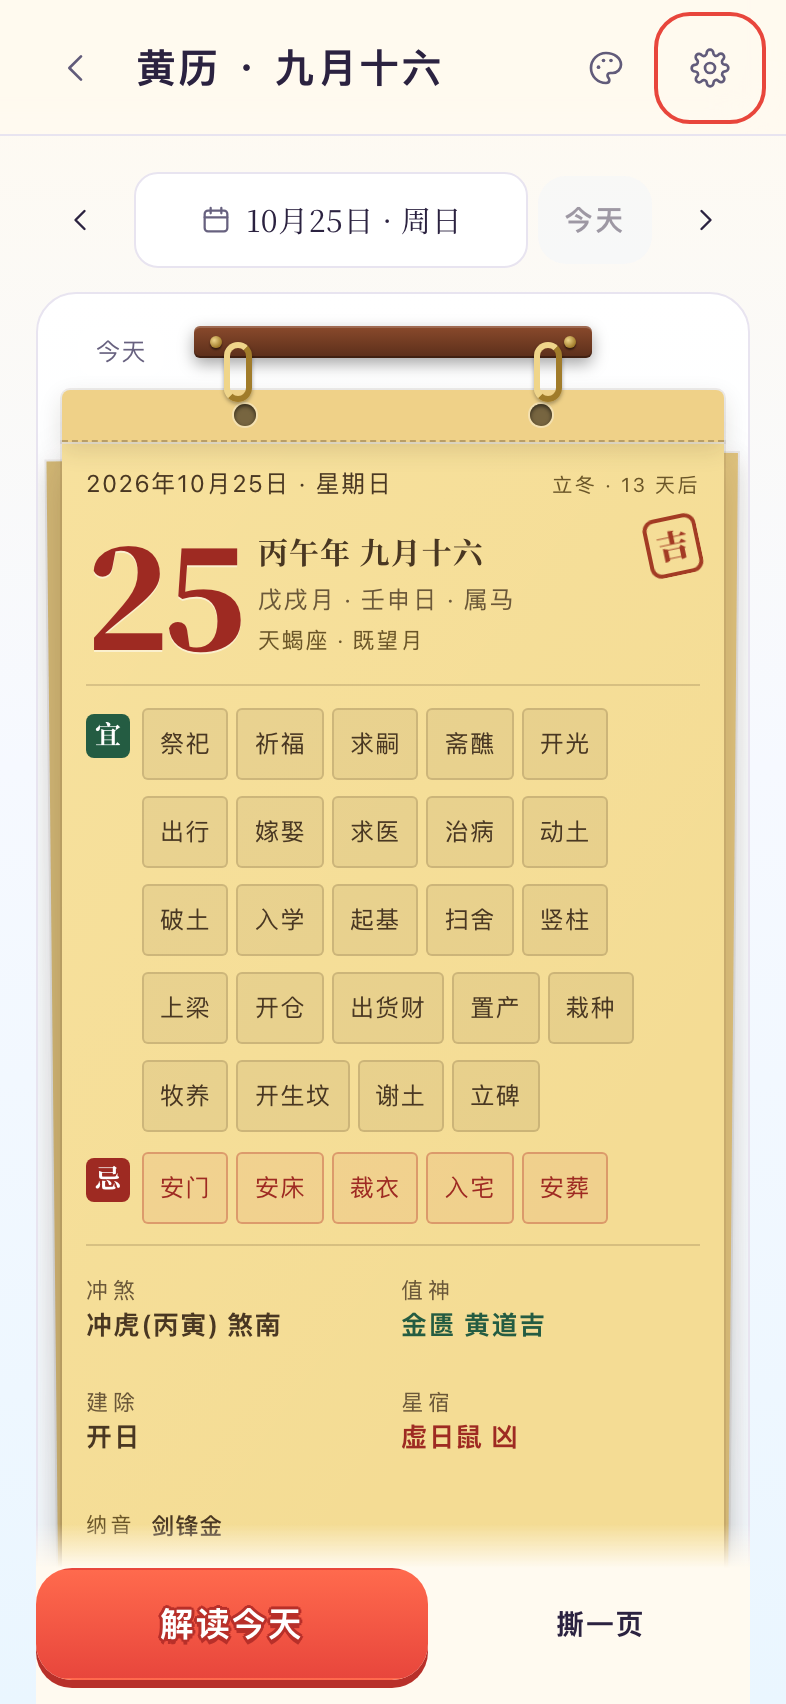
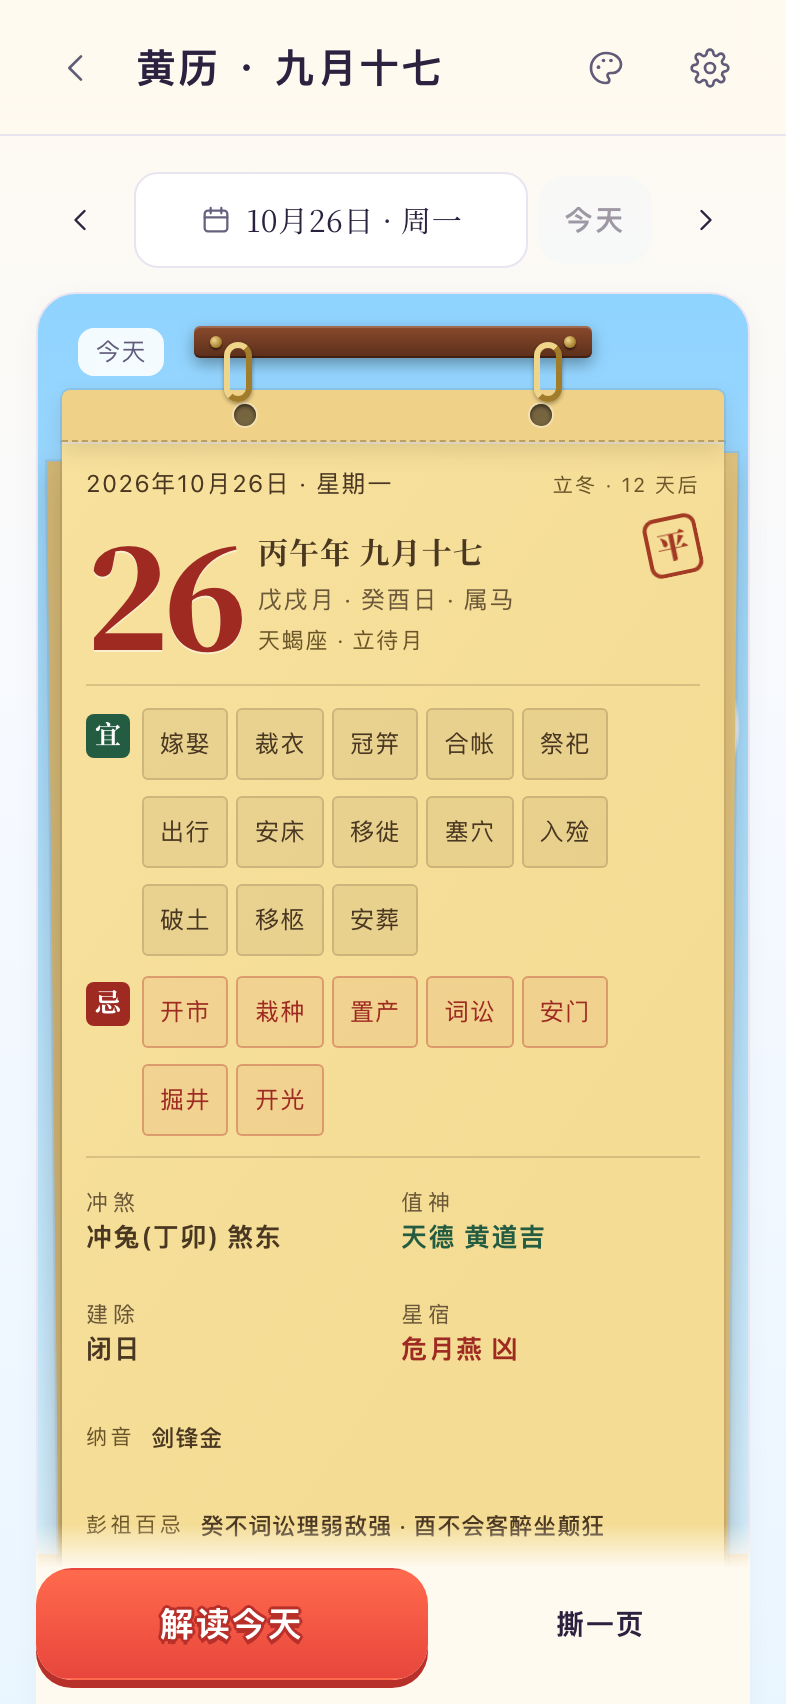
2D 玩法舞台换成卡通晴空，灵签筒改朱漆
舞台铺天空渐变、硬边地平线、纯色地面，浅色皮肤白云、深色皮肤星点，五套皮肤各一组色。
装饰画在 .stage::before 上不压字，去掉压暗四周的内阴影改成底部厚边，地影改硬边椭圆。
舞台小字底改 88% 不透明，深色皮肤小字提亮，contrast-audit 21 页 × 5 皮肤 0 处不达标。
截图替换为本轮 10 个玩法页两种尺寸 20 张。

Claude-Session: https://claude.ai/code/session_014kEEoSbSq31z5WSyCz3bva

diff --git a/src/styles/toon-props.css b/src/styles/toon-props.css
@@ -215,3 +215,84 @@
   stroke-width: 2.2px;
   filter: drop-shadow(0 1.5px 0 var(--tr-back-ink)) drop-shadow(0 -1px 0 var(--tr-back-ink));
 }
+
+/* —— 舞台卡通底（第 34 轮）——
+   2D 玩法（灵签、御神签、筊杯、硬币骰子、六爻、转盘、落球盘、卢恩、塔罗、黄历）的舞台原来是近白底配灰地影，器物像摆在白纸上。
+   改成和 3D 舞台同一套晴空：上段天空渐变，64% 处一道硬边地平线，下段纯色地面，天上两朵硬边白云（深色皮肤换成星点）。
+   3D 玩法的画布盖满舞台，这层底只在画布出来前和关掉 WebGL 时露出，也是同一片天。 */
+:root {
+  --toon-sky-1: #8fd3ff;
+  --toon-sky-2: #d4f0ff;
+  --toon-ground: #fff0cc;
+  --toon-ground-edge: #f0d49a;
+  --toon-deco: rgba(255, 255, 255, 0.92);
+  --toon-deco-size: 15% 5.5%;
+  --toon-floor: rgba(106, 123, 214, 0.22);
+}
+[data-theme='celadon'] {
+  --toon-sky-1: #93dcc8;
+  --toon-sky-2: #daf5ec;
+  --toon-ground: #f6f0d6;
+  --toon-ground-edge: #dccf9c;
+  --toon-floor: rgba(20, 90, 70, 0.2);
+}
+[data-theme='ink'] {
+  --toon-sky-1: #12293c;
+  --toon-sky-2: #224a66;
+  --toon-ground: #1a3038;
+  --toon-ground-edge: #3a6a78;
+  --toon-deco: rgba(255, 244, 214, 0.85);
+  --toon-deco-size: 2.2px 2.2px;
+  --toon-floor: rgba(0, 0, 0, 0.35);
+}
+[data-theme='cinnabar'] {
+  --toon-sky-1: #3a1022;
+  --toon-sky-2: #7a2a34;
+  --toon-ground: #3a1418;
+  --toon-ground-edge: #9a4030;
+  --toon-deco: rgba(255, 220, 160, 0.85);
+  --toon-deco-size: 2.2px 2.2px;
+  --toon-floor: rgba(0, 0, 0, 0.35);
+}
+[data-theme='nebula'] {
+  --toon-sky-1: #1b1446;
+  --toon-sky-2: #4a3a8c;
+  --toon-ground: #2a2160;
+  --toon-ground-edge: #6a58c0;
+  --toon-deco: rgba(230, 226, 255, 0.9);
+  --toon-deco-size: 2.2px 2.2px;
+  --toon-floor: rgba(0, 0, 0, 0.35);
+}
+.stage {
+  background:
+    linear-gradient(180deg, var(--toon-sky-1) 0%, var(--toon-sky-2) 64%, var(--toon-ground) 64% 100%);
+}
+.m-tarot .tr-stage {
+  /* refinement.css 给塔罗舞台单独铺了一层浅灰底，盖掉换回晴空 */
+  background:
+    linear-gradient(180deg, var(--toon-sky-1) 0%, var(--toon-sky-2) 64%, var(--toon-ground) 64% 100%);
+}
+/* 云朵、星点与地平线那道硬边画在伪元素上：它在舞台所有子元素之下，不压字，也不算进文字的背景 */
+.stage::before {
+  content: '';
+  position: absolute;
+  inset: 0;
+  border-radius: inherit;
+  pointer-events: none;
+  background:
+    radial-gradient(ellipse var(--toon-deco-size) at 20% 15%, var(--toon-deco) 0 96%, transparent 99%),
+    radial-gradient(ellipse var(--toon-deco-size) at 27% 13%, var(--toon-deco) 0 96%, transparent 99%),
+    radial-gradient(ellipse var(--toon-deco-size) at 78% 24%, var(--toon-deco) 0 96%, transparent 99%),
+    radial-gradient(ellipse var(--toon-deco-size) at 84% 22%, var(--toon-deco) 0 96%, transparent 99%),
+    linear-gradient(180deg, transparent 64%, var(--toon-ground-edge) 64% 66.5%, transparent 66.5%);
+}
+.stage,
+[data-theme='paper'] .stage,
+[data-theme='celadon'] .stage {
+  /* 去掉压暗四周的内阴影（显得阴沉），换成手游卡片的底部厚边 */
+  box-shadow: var(--shadow-1), 0 4px 0 var(--edge-color, rgba(43, 34, 64, 0.12));
+}
+.stage-floor {
+  /* 器物脚下一块硬边冷紫影，不再是糊开的灰圈 */
+  background: radial-gradient(ellipse 34% 20% at 50% 50%, var(--toon-floor) 0 96%, transparent 100%);
+}

diff --git a/src/ui/stick-scene.js b/src/ui/stick-scene.js
@@ -2,8 +2,8 @@ import { createStickPhysics } from '../core/stick-physics.js';
 import { box, lathe, transformed, axisAngle, rotate, add } from './models/geometry.js';
 import { createPainter } from './models/painter.js';
 
-// 卡通色板（visual-direction.md）：灵签筒是暖木色配金箍，御神签筒是朱红配金箍，签条为亮竹黄、签头朱红。
-const wood = '#c9772f', lacquer = '#e8463c', bamboo = '#f6d68a', bamboo2 = '#ecbf62', red = '#e8463c', gold = '#ffc93c';
+// 卡通色板（visual-direction.md）：灵签筒是朱漆圆筒配金箍（第 34 轮由暖木改，土棕在三段明暗下发闷），御神签筒是朱红六角筒配金箍，签条为亮竹黄、签头朱红。
+const wood = '#d8402e', lacquer = '#e8463c', bamboo = '#f6d68a', bamboo2 = '#ecbf62', red = '#e8463c', gold = '#ffc93c';
 const meshes = new Map();
 function tubeMesh(half, closed) {
   const key = String(closed);
@@ -15,7 +15,7 @@ function tubeMesh(half, closed) {
     : [[0,-half],[radius,-half],[radius,half],[radius-4,half],[radius-4,-half+5],[0,-half+5]];
   const body = lathe(profile, closed ? lacquer : wood, n);
   const rings = [-half + 9, half - 13].flatMap(y => lathe([[radius+1.2,y],[radius+1.2,y+6]], gold, n));
-  const inside = closed ? [] : lathe([[radius-4,-half+5],[radius-4,half-1]], '#7a3d1c', n);
+  const inside = closed ? [] : lathe([[radius-4,-half+5],[radius-4,half-1]], '#7a1a14', n);
   const mesh = [...body, ...inside, ...rings]; meshes.set(key, mesh); return mesh;
 }
 export function paintStickScene(c, width, height, sim, label = '') {

diff --git a/src/styles/contrast.css b/src/styles/contrast.css
@@ -42,3 +42,9 @@
 
 /* 付费卡「最划算」小角标：10px 白字，红底加深到主按钮厚边色 */
 [data-theme='paper'] .pw-plan-name em { background: var(--btn-edge); }
+
+/* 第 34 轮：深色皮肤舞台换成卡通夜空后，舞台上的半透明小字底变亮，小字改用二级文字色 */
+:is([data-theme='ink'], [data-theme='cinnabar'], [data-theme='nebula']) :is(.stage-badge, .stage-hint) { color: var(--text-2); }
+:is([data-theme='ink'], [data-theme='cinnabar'], [data-theme='nebula']) :is(.m-liuyao .ly-line-pos, .m-liuyao .ly-board-foot, .m-liuyao .ly-board-title) { color: var(--text); }
+.stage-badge, .stage-hint { background: color-mix(in srgb, var(--surface-strong) 88%, transparent); }
+[data-theme='paper'] :is(.stage-badge, .stage-hint) { color: var(--text-2); background: rgba(255, 255, 255, 0.9); }

diff --git a/docs/claude-plan/TODO.md b/docs/claude-plan/TODO.md
@@ -77,7 +77,7 @@ P0 上架必需 · P1 影响付费转化 · P2 体验打磨。完成后打勾并
 - [x] **浮在 3D 舞台上的文字对比度** ✅ 2026-10-26（第 32 轮。`contrast-audit.mjs` 新增 `--stage`：打开 WebGL，把浮在舞台上的字隐去后截下所在方块，逐像素算对比度取最差 10% 分位，计入合计。4 处都是塔罗页角标「78 张」（青瓷、墨夜、朱砂、星云），对比度 6.2 到 7.6，达标。宣纸与星云皮肤 21 个页面开 WebGL 全量重跑，0 处不达标）（P2，第 31 轮发现）：`contrast-audit` 发现 4 处文字背景一路透明到 3D 画布，脚本算不出，需要按截图取样。完成标准：给 audit 加截图取样模式，或逐个目测确认有底板或描边。
 - [x] **卢恩皮袋与麻布的阴沉感** ✅ 2026-10-26（第 33 轮重拍 12 个玩法页后挑出：深棕皮袋柔和渐变像塑料，米灰麻布与深灰符石整块发闷。新增 `src/styles/toon-props.css`，皮袋焦糖橙硬边分段加深棕描边与硬高光，麻布改五套皮肤各一色的绒布垫配金边，浅色皮肤符石改亮沙岩，槽位与石名白字深描边。5 套皮肤截图过目，contrast-audit 卢恩与塔罗 0 处不达标，`tests/toon-props.test.mjs` 3 项）（P2，第 33 轮发现）
 - [x] **塔罗牌背暗绿发闷** ✅ 2026-10-26（第 33 轮同一次过目发现：牌背近黑墨绿配 0.8 细线淡金，牌面插画被压到 0.48 饱和。牌背改饱和紫斜切两段明暗加深紫描边，线描加粗到 2.2 亮金，朱砂、青瓷、星云各换一色，插画恢复原色。参数见 visual-direction.md 第 2 节）（P2，第 33 轮发现）
-- [ ] **签筒、御神签筒、筊杯舞台底色发白**（P2，第 33 轮发现）：灵签、御神签、筊杯、硬币、六爻、转盘、落球盘等 2D 舞台是近白底配浅灰地影，和姻缘财运那种晴空水面舞台差得远，器物像摆在空白纸上。灵签签筒是土棕渐变，也偏闷。完成标准：给 2D 舞台加卡通化的底（浅天蓝到奶油的硬边地平线或一块描边桌垫），签筒改朱漆加金箍，5 套皮肤截图过目，contrast-audit 0 处不达标。
+- [x] **签筒、御神签筒、筊杯舞台底色发白** ✅ 2026-10-26（第 34 轮。`toon-props.css` 给所有舞台铺卡通晴空：上段天空渐变、64% 处一道硬边地平线、下段纯色地面，浅色皮肤两朵硬边白云，深色皮肤星点，五套皮肤各一组色。云朵、星点与地平线画在 `.stage::before` 上，在所有子元素之下。去掉压暗四周的内阴影，改成底部 4px 厚边，地影改硬边冷紫椭圆，塔罗舞台的单独浅灰底也盖掉。灵签筒由土棕木改朱漆、筒内深红。舞台小字底改为 88% 不透明，深色皮肤小字用二级文字色，六爻爻位与标题用一级文字色。contrast-audit 21 个页面 × 5 套皮肤 0 处不达标，`tests/toon-props.test.mjs` 新增 1 项）（P2，第 33 轮发现）：灵签、御神签、筊杯、硬币、六爻、转盘、落球盘等 2D 舞台是近白底配浅灰地影，和姻缘财运那种晴空水面舞台差得远，器物像摆在空白纸上。灵签签筒是土棕渐变，也偏闷。完成标准：给 2D 舞台加卡通化的底（浅天蓝到奶油的硬边地平线或一块描边桌垫），签筒改朱漆加金箍，5 套皮肤截图过目，contrast-audit 0 处不达标。
 - [x] **3D 舞台 e2e 在 Mac 高负载时超时** ✅ 2026-10-23（第 11 轮查明：SwiftShader 没有并行编译扩展，舞台首次同步编译着色器会把页面主线程占住 20 到 40 秒，期间 Playwright 的 waitForSelector 拿不到回应。原来 30 秒的等待不够，失败的用例又不关上下文，留下的 WebGL 舞台继续占 CPU 拖垮后面所有用例。改为按 200 毫秒间隔轮询、玩法页与舞台等待统一 120 秒、afterEach 关闭所有上下文，8 项全部通过。真机有 GPU，不受影响）（第 10 轮发现）：`tests/e2e/stage.e2e.mjs` 7 项等待 `data-ready` 30 秒超时，未改动的 HEAD 上同样失败，当时系统负载 12（ANECompilerService 与 iOS 模拟器在跑）。负载降到 8 后再跑仍然超时。用同样的浏览器参数（WebGL、zh-CN、390×844、宣纸皮肤）单独写脚本打开姻缘页，3 秒内就 `data-ready="1"` 且可见，所以问题在测试文件内部（可能是 before 里的构建目录或共享浏览器状态），不是页面本身。完成标准：查到原因并让 stage.e2e.mjs 11 件器物全部通过。
 - [ ] **英文界面**（第 11 轮从 P1 移到 P2：签诗、牌义、黄历等解读内容全是中文，只翻界面会让英文用户点开结果看到整页中文，比不翻更差。首发面向中文用户，英文版需要连同解读内容一起做，单独立项）
 - [x] **快进的发现性** ✅ 2026-10-23（第 12 轮，`src/ui/ritual.js` 第一次遇到 ≥1.2 秒的仪式等待时，舞台底部居中出白底描边小签「轻点舞台可快进」2.6 秒，快进或出结果时立即收起，`lgj:hint.hurry` 记住后所有玩法都不再出现，`tests/e2e/hurry.e2e.mjs` 新增 1 项）：第一次仪式时在舞台下方提示一次「轻点舞台可快进」。完成标准：只出现一次，有 e2e。

diff --git a/docs/claude-plan/run-log.md b/docs/claude-plan/run-log.md
@@ -1034,3 +1034,27 @@
 Mac 上 `npm test` 435 项全部通过（含第 28 轮未提交的 3 项，负载 185 到 270 下跑了约 33 分钟）。
 
 推送结果：提交 8a7f049 推送成功。
+
+## 第 34 轮 · 2026-10-26 21:25 UTC 起（PDT 10-26 14:25，Peyton 在对话里让继续，提前开跑）
+
+开始状态：分支正确，与远端一致（123eb6b），.lock 为 idle，已写入本轮时间。工作区仍有第 28 轮留下的未提交改动，原样保留、不提交，TODO.md 照上一轮的办法只暂存本轮改动。Mac 磁盘已清到 32GB 空余，负载降到 24 到 43。
+
+完成的待办（1 项 P2，第 33 轮新增）：
+- ✅「签筒、御神签筒、筊杯舞台底色发白」：`toon-props.css` 给所有舞台铺卡通晴空，上段天空渐变、64% 处一道硬边地平线、下段纯色地面，浅色皮肤两朵硬边白云，深色皮肤星点，五套皮肤各一组色。云朵、星点与地平线画在 `.stage::before` 上，在舞台所有子元素之下，不压字。去掉压暗四周的内阴影，改成手游卡片的底部 4px 厚边，地影改硬边椭圆，塔罗舞台原来单独铺的浅灰底也换成晴空。灵签筒由土棕木改朱漆、筒内深红，和朱红六角的御神签筒靠形状区分。3D 玩法的画布盖满舞台，这层底只在画布出来前和关掉 WebGL 时露出。
+- 对比度：换底后深色皮肤舞台上的徽记、提示和六爻卦象台小字 78 处不达标（半透明底叠在变亮的夜空上），舞台小字底改 88% 不透明，深色皮肤小字用二级文字色，六爻爻位与标题用一级文字色，宣纸皮肤徽记用白底 0.9。改后 21 个页面 × 5 套皮肤 0 处不达标。
+- 参数写进 visual-direction.md 第 2 节「舞台底（2D 玩法）」，`tests/toon-props.test.mjs` 新增 1 项。
+
+检查结果：
+- 云端 `npm test` 433 项、Mac 上 436 项全部通过（Mac 含第 28 轮未提交的 3 项），`npm run build` 通过。
+- 截图（Mac，393×852 与 430×932，`--no-webgl`）：灵签、御神签、筊杯、硬币、六爻、转盘、落球盘、卢恩、塔罗、黄历共 20 张，替换第 31 轮的旧图。report.json 无横向溢出，转盘的 `wh-halo` 与塔罗、转盘的 `chip` 是舞台内被裁掉的光晕和横向滚动的页签，改动前就有，页面本身不溢出。过目：晴空、地平线与白云清楚，朱漆签筒配金箍醒目，器物不再像摆在白纸上，徽记小字清楚无截断。云端另看了星云、朱砂、玄墨、青瓷四套皮肤的灵签、筊杯、塔罗、御神签、六爻、转盘，夜空星点和地平线正常，开 WebGL 的姻缘页 3D 舞台不受影响。
+- e2e 没有跑：本轮只改颜色与背景，不改布局和交互。
+
+遗留问题：
+- 第 28 轮的未提交改动仍在工作区。
+- 磁盘已够 6GB，下一轮可以开始 P1「UI 测试走通购买与恢复」与大屏模拟器付费卡截图。
+
+下一轮计划：做 P1「UI 测试走通购买与恢复」（`PaywallScreenshotTests` 新增两项并在模拟器通过），顺带跑 P2「付费卡在大屏模拟器上截图」。
+
+待 Peyton 决定：
+- 第 28 轮留在工作区的未提交改动（e2e 舞台等待可调、测试里关掉自动屏保）是否提交。
+- 首发是否包含中国大陆（需 App 备案号）、小组件与断签提醒真机验证、年龄分级 13+、皮肤内购价格档位、GitHub Pages 合并时机，同前几轮。

diff --git a/docs/claude-plan/visual-direction.md b/docs/claude-plan/visual-direction.md
@@ -37,6 +37,7 @@
 | 动效 | 所有触发动作带「预备 → 冲 → 过冲 → 回弹」：预备压扁 8%、过冲 12%、回弹阻尼 0.35。揭晓时器物放大 1.08 再回到 1，同时一圈金星粒子。构图要给过冲留余量：过冲时器物最高点在正方形舞台里 ndc.y < 0.9（灵摆第 23 轮调相机，青云梯第 24 轮调相机）。第 24 轮起 `npm run frame:check` 在真实场景里逐帧投影主角全部顶点，11 件从静止、动作到揭晓全程最高点 < 0.9、最低点 > −0.95、左右 < 0.95，叠加混合的光束不计入，`tests/e2e/stage-frame.e2e.mjs` 断言 |
 | 卢恩皮袋与绒布（CSS 器物） | 第 33 轮 `src/styles/toon-props.css`：皮袋焦糖橙 #e08a2e、暗段 #b05a1c 硬边分段（椭圆 70% 处切开），3px 深棕 #4a2410 描边，一块旋转 −24° 的白色硬高光（不透明度 0.55），束绳金 #ffc93c / #d8901e 两段。米色麻布改绒布垫：宣纸紫 #7a52e0、青瓷绿 #22a88f、朱砂红 #d8402e、星云 #4a3ab8、玄墨蓝 #3f6fd8，圆角 14px，3px 深色描边，内圈 8px 金边，左上 38% 一块浅色斜面，2px 奶油虚线框与槽位。浅色皮肤符石由深灰改亮沙岩 #f8e6bc / #e2b878 / #b07a3e，符文朱红 #d8402e，2.5px 深紫 #2b2240 内描边加右下硬暗边。槽位与石名白字 #fff4d6 配四向 1px 深色描边，逆位章改金底 |
 | 塔罗牌背（CSS 器物） | 第 33 轮：暗绿 #20363c 改饱和紫 #7b4fe0，左上 34% 斜切亮段 #9b6bff，2.5px 深紫 #24124f 描边。线描由 0.8 加粗到 2.2、改亮金 #ffc93c，外面一圈深紫投影当描边。朱砂皮肤红背 #d8402e、青瓷绿背 #1f9a84、星云 #5a46d0。牌面插画去掉 0.48 饱和与棕黄滤镜，改 saturate(1.08) |
+| 舞台底（2D 玩法） | 第 34 轮：浅色天空 #8fd3ff → #d4f0ff，64% 处 2.5% 高硬边地平线 #f0d49a，地面奶油 #fff0cc，两朵 15% × 5.5% 硬边白云（不透明度 0.92）。青瓷 #93dcc8 → #daf5ec、地面 #f6f0d6。深色皮肤：玄墨 #12293c → #224a66 地面 #1a3038，朱砂 #3a1022 → #7a2a34 地面 #3a1418，星云 #1b1446 → #4a3a8c 地面 #2a2160，云换成 2.2px 星点。地影硬边椭圆，浅色冷紫 rgba(106,123,214,.22)，深色黑 0.35。舞台去掉内阴影，底部 4px 厚边。灵签筒朱漆 #d8402e、筒内 #7a1a14 |
 | 帧率显示 | 默认关闭，设置里可打开 |
 
 验收方法：`node scripts/iphone-shots.mjs` 截 393×852 与 430×932，器物必须有清晰描边、三段明暗、无大面积灰雾，深浅皮肤都看得出形状。
